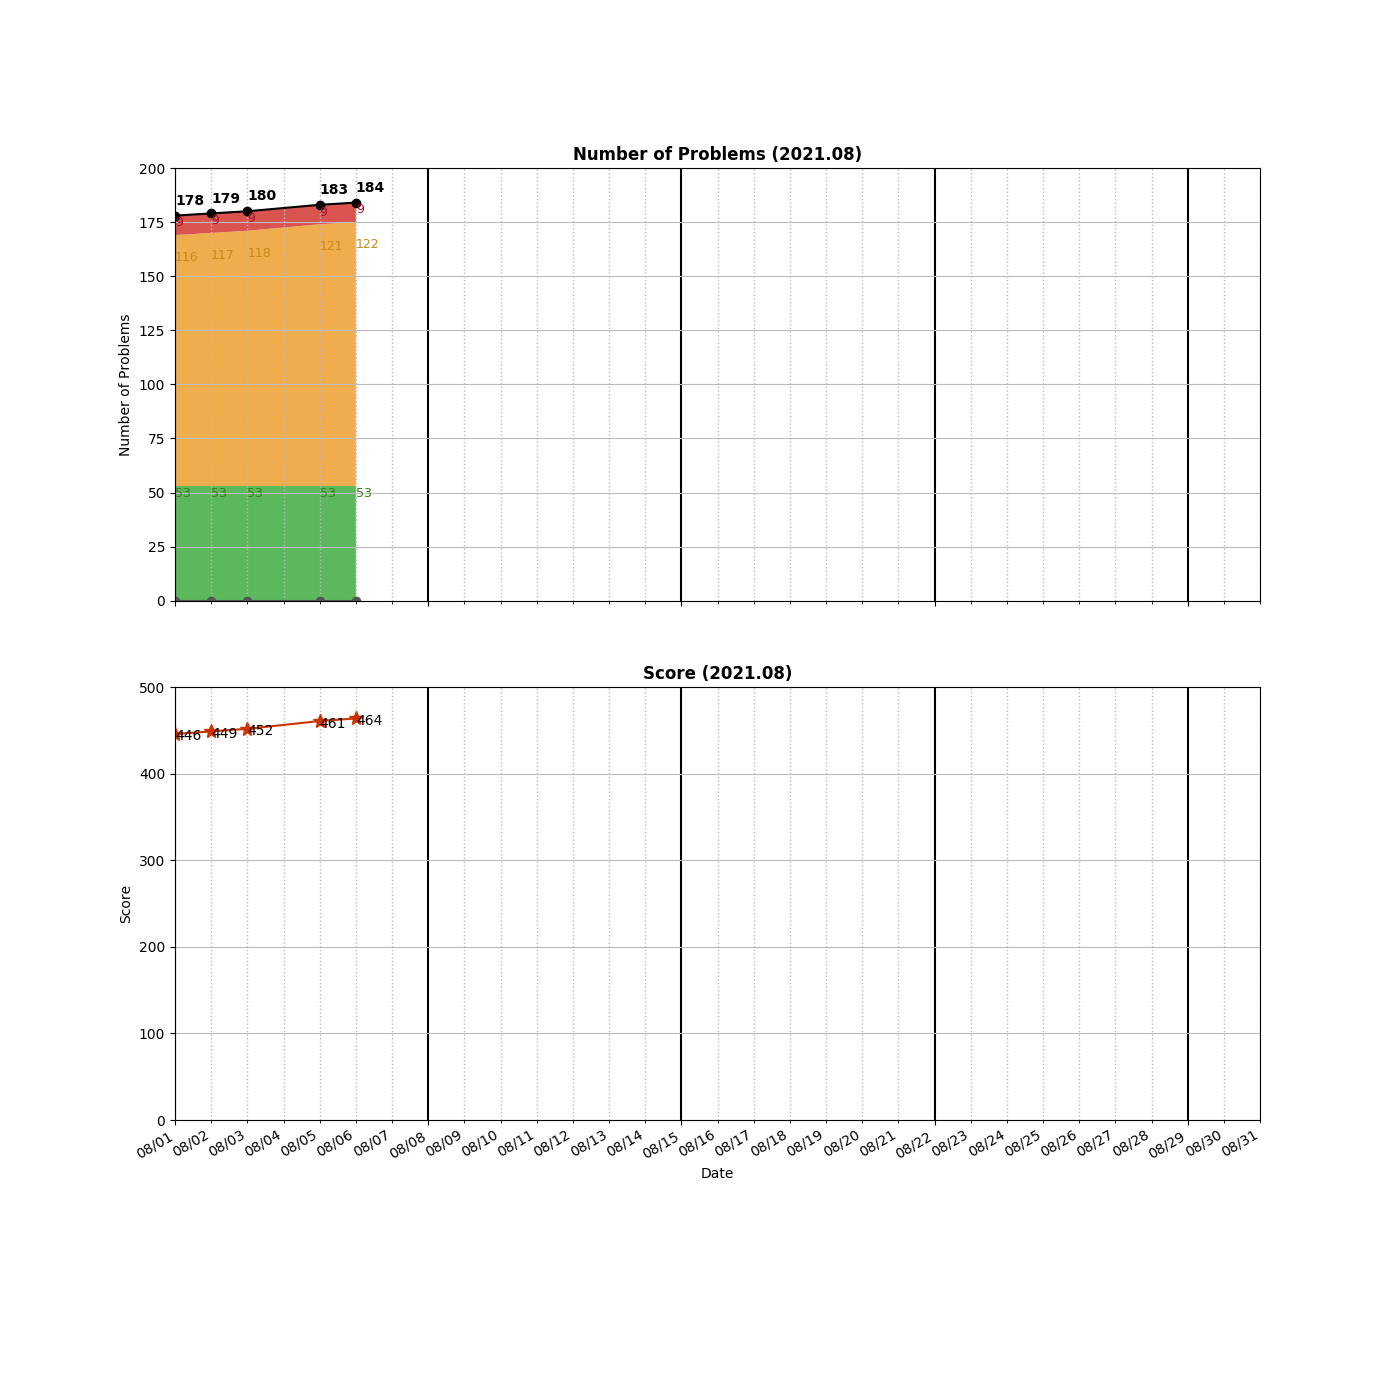
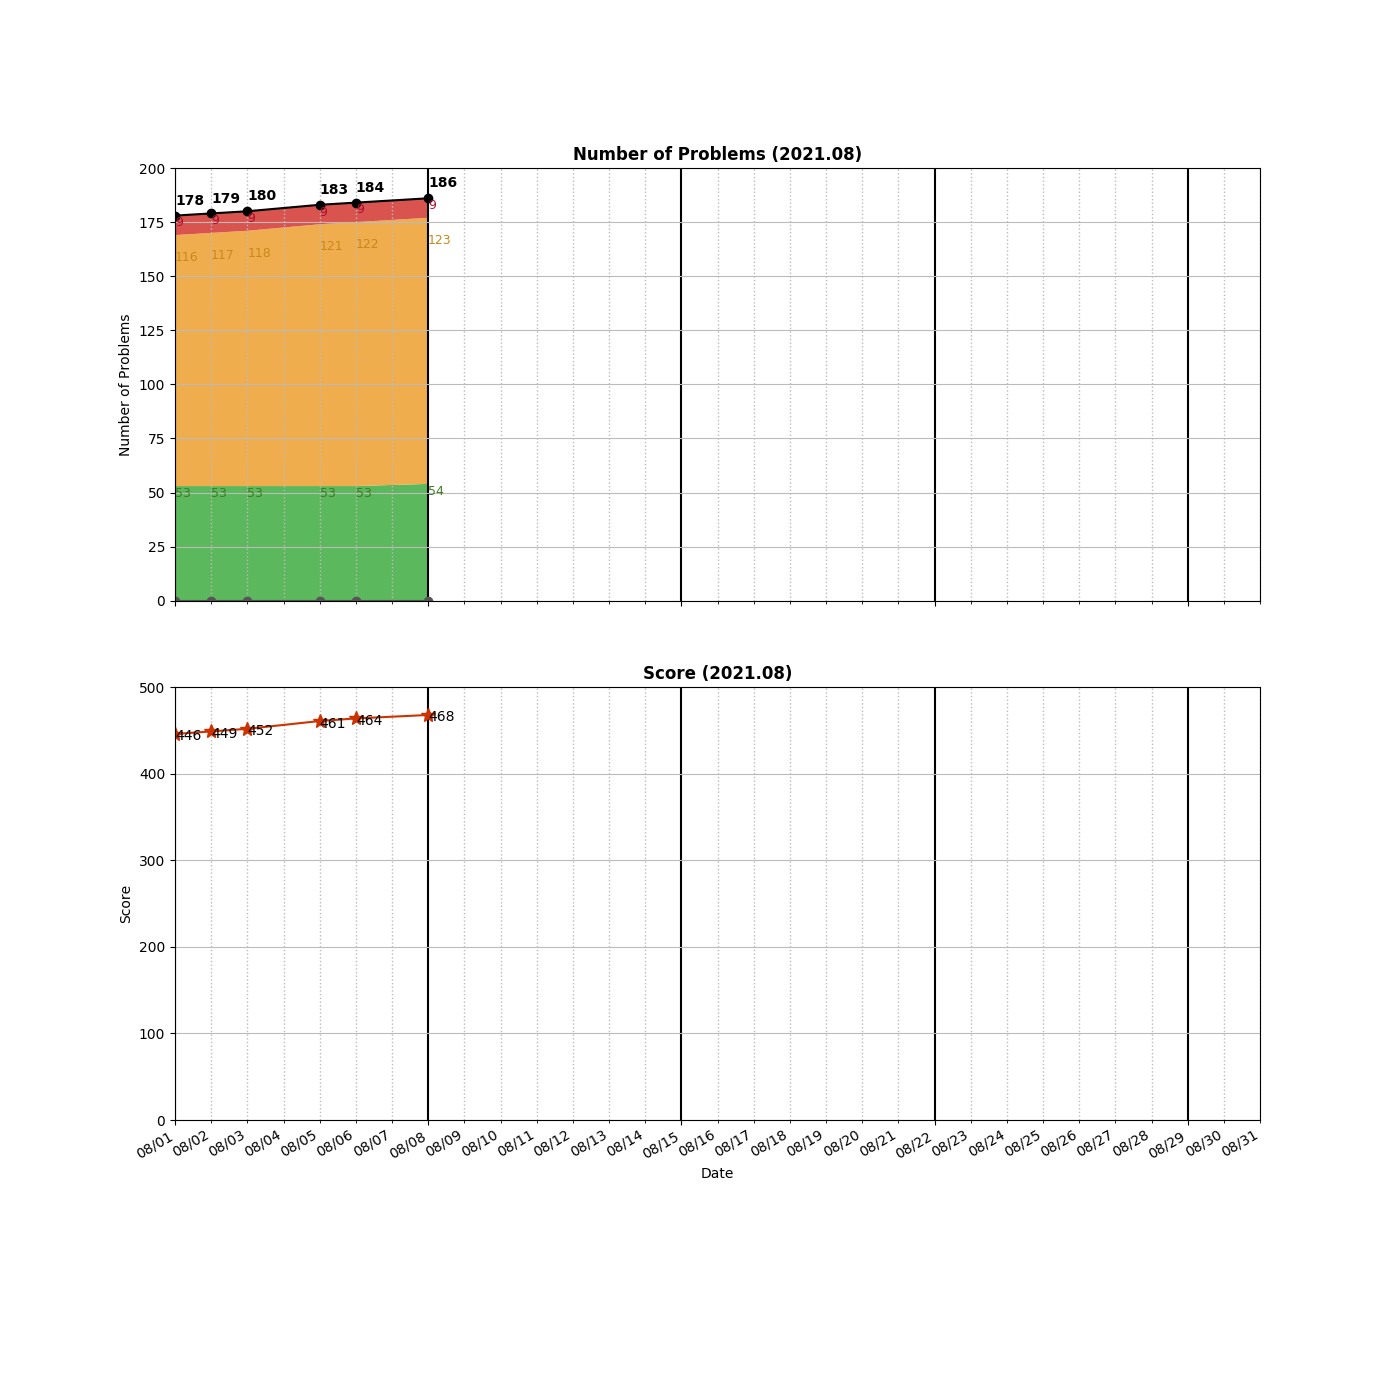
Added __1130__Minimum Cost Tree From Leaf Values.py

Changed region(s): [[0.2457, 0.1229, 0.3379, 0.43]]

diff --git a/algo/DP/__1130__Minimum Cost Tree From Leaf Values.py b/algo/DP/__1130__Minimum Cost Tree From Leaf Values.py
@@ -1,0 +1,32 @@
+class Solution:
+    
+    # DP [O(n3): 15%]
+    def mctFromLeafValues(self, arr: List[int]) -> int:
+        m = len(arr)
+        dp = [[0 for _ in range(m)] for _ in range(m)]
+
+                
+        for d in range(1, m):
+            for i in range(m):
+                if i+d >= m:
+                    continue
+
+                ### Correct (compare all possible division)
+                minVal = float('inf')
+                for p in range(d):
+                    ll, lr = i, i+p
+                    rl, rr = i+p+1, i+d
+                    minVal = min(minVal, dp[ll][lr] + dp[rl][rr] + max(arr[ll:lr+1]) * max(arr[rl:rr+1]))
+                dp[i][i+d] = minVal
+                
+                ### Wrong (compare only left and right two possibilities)
+                left  = dp[i][i+d-1] + max(arr[i:i+d]) * arr[i+d]
+                right = dp[i+1][i+d] + max(arr[i+1:i+d+1]) * arr[i]
+                #dp[i][i+d] = min(left, right)
+                #print(i,",",i+d,":",left, right, minVal)
+                
+        
+        # for i in range(m):
+        #     print(dp[i])
+        
+        return dp[0][m-1]

diff --git a/README.md b/README.md
@@ -85,6 +85,7 @@ algo
 │   ├── __0322__Coin\ Change.py
 │   ├── __0576__Out\ of\ Boundary\ Paths.py
 │   ├── __0935__Knight\ Dialer.py
+│   ├── __1130__Minimum\ Cost\ Tree\ From\ Leaf\ Values.py
 │   ├── __1143__Longest\ Common\ Subsequence.py
 │   └── __1395__Count\ Number\ of\ Teams.py
 ├── DataStructure
@@ -212,7 +213,7 @@ algo
         ├── LinkedList.cpython-37.pyc
         └── UnrolledLinkedList.cpython-37.pyc
 
-21 directories, 190 files
+21 directories, 191 files
 
 =====================================
 ============= Local Repo ============
@@ -387,6 +388,7 @@ __0935__Knight Dialer.py
 __0969__Pancake Sorting.py
 __0973__K Closest Points to Origin.py
 __1099__Two Sum Less Than K.py
+__1130__Minimum Cost Tree From Leaf Values.py
 __1143__Longest Common Subsequence.py
 __1214__Two Sum BSTs.py
 __1254__Number of Closed Islands.py
@@ -399,7 +401,7 @@ __1593__Split a String Into the Max Number of Unique Substrings.py
 __1711__Count Good Meals.py
 __1905__Count Sub Islands.py
 =====================================
-Num of Python Practice:  181
+Num of Python Practice:  182
 
 
 =====================================
@@ -556,6 +558,7 @@ Num of Python Practice:  181
  0680 Valid Palindrome II
  0684 Redundant Connection
  0687 Longest Univalue Path
+ 0690 Employee Importance
  0694 Number of Distinct Islands
  0695 Max Area of Island
  0703 Kth Largest Element in a Stream
@@ -578,6 +581,7 @@ Num of Python Practice:  181
  0973 K Closest Points to Origin
  0994 Rotting Oranges
  1099 Two Sum Less Than K
+ 1130 Minimum Cost Tree From Leaf Values
  1143 Longest Common Subsequence
  1214 Two Sum BSTs
  1254 Number of Closed Islands
@@ -590,11 +594,11 @@ Num of Python Practice:  181
  1711 Count Good Meals
  1905 Count Sub Islands
 =====================================
-Solved / Total (Easy)  :   53 /  506
-Solved / Total (Medium):  122 / 1035
-Solved / Total (Hard)  :    9 /  415
-Solved / Total (All)   :  184 / 1956
-Total Score            :  464
+Solved / Total (Easy)  :   54 /  507
+Solved / Total (Medium):  123 / 1037
+Solved / Total (Hard)  :    9 /  416
+Solved / Total (All)   :  186 / 1960
+Total Score            :  468
 =====================================
 
 ```
